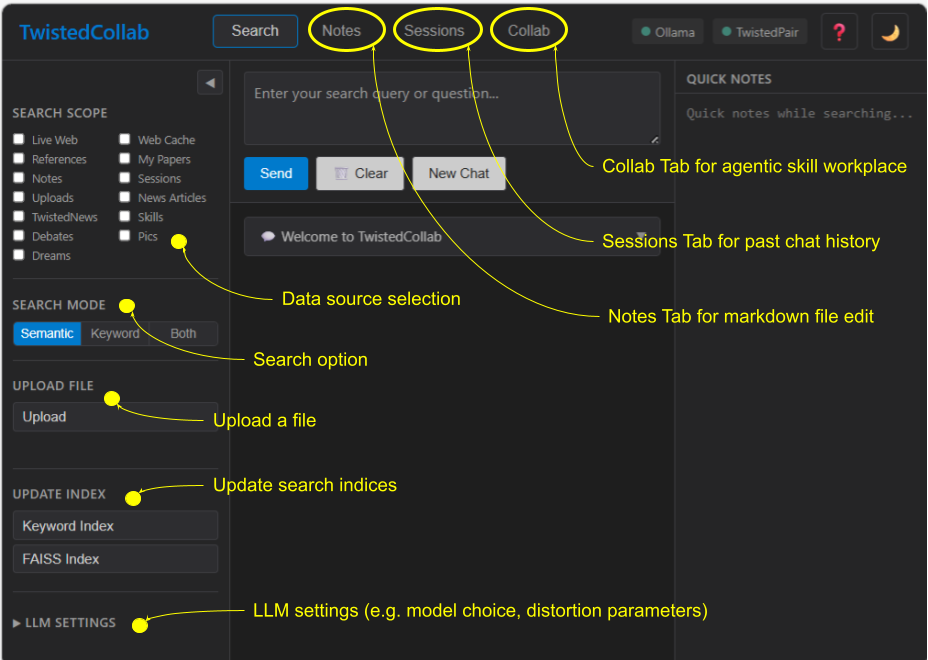
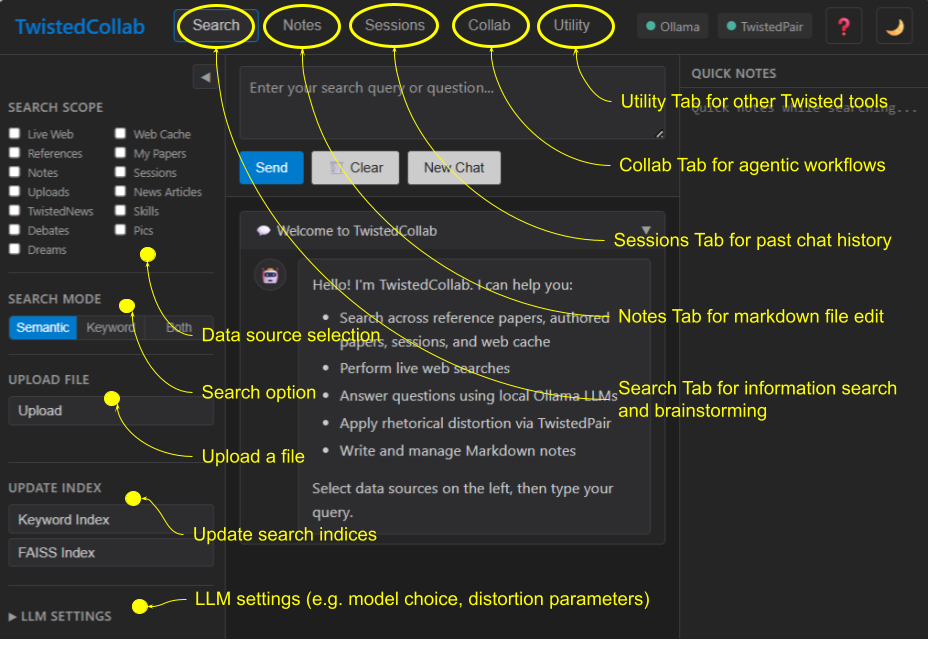
update README

diff --git a/README.md b/README.md
@@ -1,18 +1,46 @@
 # TwistedCollab
 
-*A **local-first**, no-cloud AI agentic research assistant* - Fully self-contained Web browser application to access, analyze, and act on data. ***Collaborate*** with AI agents in multi-step agentic workflows, and special features from rhetorical [***TwistedPair***]( https://github.com/satoruisaka/TwistedPair) distortion and data integration with [***TwistedDebate***](https://github.com/satoruisaka/TwistedDebate), [***TwistedDream***](https://github.com/satoruisaka/TwistedDream), [***TwistedNews***](https://github.com/satoruisaka/TwistedNews), and [***TwistedPic***](https://github.com/satoruisaka/TwistedPic). Core functions include: RAG-powered chat, Markdown file edits and previews, live Web search, semantic and keyword search on local data sources, including personal documents, session history, notes, uploads, news articles, and various AI agent outputs.
+Created: October 2025 · Updated: March 24, 2026
 
-Created: February 2026 · Updated: March 2026
+- Fully self-contained Web browser application, serving as an agentic research assistant with ***no cloud dependencies***, collaborating with local LLMs in agentic workflows to access, analyze, and act on data.
+
+- Core functions: RAG-powered chat, Markdown file edits and previews, live Web search, semantic and keyword search on local documents, session history, notes, uploads, news articles, and various AI agent outputs.
+
+- Special features: Uniquely integrated with ***Twisted*** services: [***TwistedPair***]( https://github.com/satoruisaka/TwistedPair), [***TwistedDebate***](https://github.com/satoruisaka/TwistedDebate), [***TwistedDream***](https://github.com/satoruisaka/TwistedDream), [***TwistedNews***](https://github.com/satoruisaka/TwistedNews), and [***TwistedPic***](https://github.com/satoruisaka/TwistedPic). 
+
 
 ## Target User and Objective
 
-TwistedCollab is originally designed and built for my personal use to assist my daily scientific research activities, which mostly involve data, documents, and idea managament. Ideation and iteration are critical elements in research. I often revisit what I have read, thought, built, and written in the past, and ask myself questions on them from different perspectives at different times. Therefore, searching and reading data and documents alone is not sufficient. I need a tool that captures what I do everyday and allows me to access and act on them.
+TwistedCollab is specifically designed for my personal use to assist my daily scientific research actibities. The objective is to establish a comprehensive, unified workbench to manage my data, documents, and ideas, completely locally without cloud dependencies.
 
-Many tasks I regulary perform require multiple steps with advanced linguistic processes. LLMs are very useful for this purpose. Since my work involve large volume of texts, data, and programs, the total token counts are quite large. Relying on cloud AI services adds up cost. Since everything I do remains in my local workstation, dealing with cloud storage is not ideal for me.
+*Reason why I exploit local LLMs and agentic workflows* - Ideation and iteration are critical elements in my daily work. I often revisit what I have read, thought, built, and written in the past, and ask myself questions on them from different perspectives at different times. Many tasks I regulary perform require multiple steps with advanced linguistic processes. LLMs are useful for this type of work. Since my work involve large volume of texts, data, and programs, the total token counts are quite large. Also because everything I do remains in my local workstation, dealing with cloud storage is not ideal. Local LLMs are my solution.
 
-Therefore, the objective of TwistedCollab is to address these needs and constraints, serving as a personal agentic research assistant, providing a unified workbench to not only access but also to act on my data, documents, and ideas, and doing so completely locally without cloud dependencies.
+## How I use ***Twisted*** tools everyday
 
-Unlike LLM-based communication automation apps such as **OpenClaw**, TwistedCollab is about accessing and acting on local data by exploiting Twisted series applications that fully exploit LLM capabilities.  
+At 6AM every morning, I receive and read two emails from my ***NewsAgent*** and ***TwistedNews***, which give me an overview of what's happening in the world with custom commentaries.
+
+I then launch ***TwistedCollab*** and begin my work:
+- From **Search** Tab, I brainstorm ideas with LLMs, do live Web search, and document search.
+- From **Notes** Tab, I take new notes or revisit my old notes.
+- From **Sessions** Tab, I revisit previous sessions to resume idea brainstorming.
+- From **Collab** Tab, I launch agentic workflows (e.g. literature search, literature review, document commentary).
+- From **Utiity** Tab, I launch various Twisted services:
+  - ***TwistedPic*** - custom image generation with TwistedPair distortion
+  - ***TwistedDream*** - custom story generation with illustraions and TwistedPair distortion
+  - ***TwistedDebate*** - agentic debate for deep analyses (one-one debate, cross examination, panel discussion, round robin comments)
+  - *Excalidraw* - drawing tool
+
+## Local models I regularly use
+
+- ministral-3:14b - default model for quick response
+- gemma3:27b - instruction following tasks, brainstorming
+- qwne3-coder:30b - programming
+- qwen3.5:27b and 35b - brainstorming and architecting
+- deepseek-r1:8b - for agentic debates
+- nemotron-cascade-2:30b - agentic debates
+- nemotron-3-nano:30b - agentic debates
+
+Note: My workstation has RTX5090 with 32GB so these 14b-30b models work well.
 
 ### **Screenshots**
 
@@ -111,6 +139,11 @@ All settings live in `config.py` and can be overridden via environment variables
 | `UNLOAD_EMBEDDER_AFTER_USE` | `True` | Free GPU after embedding queries |
 | `CHILD_CHUNK_SIZE` | `500` | Tokens per chunk for FAISS indexing |
 | `CHUNK_OVERLAP` | `100` | Overlap between consecutive chunks |
+| `UTILITY_HOST` | `http://192.168.1.92` | Base host for all utility service URLs |
+| `TWISTEDPIC_URL` | `{UTILITY_HOST}:5000` | TwistedPic service URL |
+| `TWISTEDDREAM_URL` | `{UTILITY_HOST}:5001` | TwistedDream service URL |
+| `TWISTEDDEBATE_URL` | `{UTILITY_HOST}:8004` | TwistedDebate service URL |
+| `EXCALIDRAW_URL` | `{UTILITY_HOST}:3001` | Excalidraw service URL |
 
 ---
 
@@ -176,6 +209,26 @@ Full Markdown editor:
 - Live filter box to search session titles and previews
 - Sessions stored as JSON + Markdown in `data/sessions/`
 
+### Utility Tab
+
+Launcher and file manager for companion services in the Twisted ecosystem.
+
+**Service Launcher (top)** — Cards are rendered dynamically from `/api/utility-urls`. Each card shows:
+- A **live status dot** (green = running, amber pulse = starting/checking, red = stopped) probed at tab-open time via `GET /api/utility/status/{service}`
+- A **Launch** button that:
+  1. Opens a blank browser tab immediately (avoids popup-blocker)
+  2. Calls `POST /api/utility/launch/{service}` — if the service is already running the tab navigates to its URL instantly
+  3. If the service is down, the server spawns the corresponding startup script (e.g. `startTwistedPic.sh`) as a background process
+  4. The button changes to **Starting…** and polls `GET /api/utility/status/{service}` every 3 seconds; once the service responds the tab is navigated and the button resets
+  5. Startup errors (e.g. Ollama not running) or a 2-minute timeout surface as an inline error message on the card
+- If a service URL is `null` (not yet configured), the card shows **Coming Soon** instead
+
+**File Manager (bottom)** — Browse, navigate, and download files from the `data/` directory:
+- Breadcrumb navigation into nested folders
+- Checkbox-select individual files; **Download Selected** packages them as a `.zip`
+- Select All / Deselect controls
+- File size and modification date columns
+
 ### Collab Tab
 
 The **Agentic Skill Runner**. Executes multi-step LLM workflows driven by YAML skill definitions.
@@ -184,7 +237,10 @@ The **Agentic Skill Runner**. Executes multi-step LLM workflows driven by YAML s
 - **Skill Library** — all registered skills loaded from `skills/*.yaml`; click a card to select
 - **Parameters** — dynamically rendered form for each skill's declared parameters
   - `str` / `int` → text or number input with min/max constraints
+  - `str` with `allowed_values` → dropdown select
+  - `text` → multi-line textarea (for pasting content)
   - `dict` (e.g. `search_scope`) → compact 2-column checkbox grid, one checkbox per key (mirrors the Search Scope layout in the Search tab)
+  - Parameters with `linked_to` → file picker whose list auto-populates when its linked source-type dropdown changes
 - **Run Skill** — disabled while a job is running (single-run guard)
 - **Recent Jobs** — last 5 jobs with status badge; click a completed job to restore its output
 
@@ -236,6 +292,23 @@ Automated 3-step literature review over your indexed document collections.
 
 ---
 
+#### `document_commentary`
+Generates structured commentary on any indexed document or directly on pasted text.
+
+| Parameter | Type | Default | Description |
+|---|---|---|---|
+| `source_type` | str (dropdown) | `notes` | Where to read the content from: `text`, `notes`, `user_uploads`, `skills`, `news_articles`, `twistednews`, `reference_papers`, `my_papers`, `sessions` |
+| `source_file` | str (file picker) | — | File to comment on — list auto-populates when `source_type` changes. Leave empty when `source_type = text` |
+| `source_text` | text (textarea) | — | Paste text directly (only used when `source_type = text`) |
+| `commentary_focus` | str | — | Specific angle to focus the commentary on (optional) |
+| `tone` | str (dropdown) | `analytical` | Commentary tone: `analytical`, `critical`, `supportive`, `neutral` |
+
+**Steps:** `source_fetch_agent` → `commentary_agent`
+
+**Output:** Structured Markdown commentary with Overview, Key Points, Substantive Commentary, Connections & Implications, and Open Questions.
+
+---
+
 #### `literature_discovery`
 Discovers new sources via live web search, then ranks and annotates them with an LLM.
 
@@ -261,6 +334,8 @@ Discovers new sources via live web search, then ranks and annotates them with an
 | `summarization_agent` | `agents/summarization_agent.py` | `synthesize` | Ollama LLM — structured 5-section review |
 | `web_discovery_agent` | `agents/web_discovery_agent.py` | `discover_sources` | `POST /api/web-search` (Brave/DDG) |
 | `extraction_agent` | `agents/extraction_agent.py` | `extract_sources` | Ollama LLM — ranks + annotates results |
+| `source_fetch_agent` | `agents/source_fetch_agent.py` | `fetch_source` | Reads a file from any indexed source or accepts pasted text |
+| `commentary_agent` | `agents/commentary_agent.py` | `generate_commentary` | Ollama LLM — structured document commentary |
 
 ### Adding a New Skill
 
@@ -477,6 +552,12 @@ Sessions are resumable from the Sessions tab. Closed sessions are auto-indexed s
 | GET | `/api/notes/{filename}` | Load a note |
 | PUT | `/api/notes/{filename}` | Save a note |
 | GET | `/api/health` | Health — Ollama, TwistedPair, embedder, GPU |
+| GET | `/api/utility-urls` | Return configured URLs for all utility services |
+| GET | `/api/utility/status/{service}` | Probe whether a utility service is reachable (`running` \| `stopped` \| `starting` \| `error`) |
+| POST | `/api/utility/launch/{service}` | Check service health; if down, spawn its startup script and return `starting` status |
+| GET | `/api/files/list` | List files/folders under `data/` (breadcrumb navigation) |
+| GET | `/api/files/download` | Download a single file from `data/` |
+| POST | `/api/files/download-zip` | Package selected files as a `.zip` download |
 | POST | `/api/skills/run/stream` | Run a skill with SSE progress stream |
 | POST | `/api/skills/run` | Submit skill as async job (returns job_id) |
 | GET | `/api/skills/status/{job_id}` | Poll job status and result |
@@ -585,10 +666,13 @@ TwistedCollab/
 | `agents/summarization_agent.py` | LLM literature review synthesis agent |
 | `agents/web_discovery_agent.py` | Web search agent with optional site: filter |
 | `agents/extraction_agent.py` | LLM source ranking and annotation agent |
+| `agents/source_fetch_agent.py` | Reads a file from any indexed source or accepts pasted text |
+| `agents/commentary_agent.py` | LLM structured document commentary agent |
 | `skills/skill_schema.py` | Pydantic models for YAML skill definitions |
 | `skills/skill_registry.py` | Lazy YAML loader and cache for skill definitions |
 | `skills/literature_review.yaml` | 3-step literature review skill definition |
 | `skills/literature_discovery.yaml` | 2-step web discovery + extraction skill definition |
+| `skills/document_commentary.yaml` | 2-step document commentary skill definition |
 
 ---
 
@@ -604,6 +688,11 @@ TwistedCollab/
 | `TWISTED_DEBATES_DIR` | Path to TwistedDebate outputs (default: `../TwistedDebate/outputs`) |
 | `TWISTED_PICS_DIR` | Path to TwistedPic outputs (default: `../TwistedPic/outputs`) |
 | `TWISTED_DREAMS_DIR` | Path to TwistedDream outputs (default: `../TwistedDream/outputs`) |
+| `UTILITY_HOST` | Base host for companion service URLs (default: `http://192.168.1.92`) |
+| `TWISTEDPIC_URL` | Override TwistedPic URL (default: `{UTILITY_HOST}:5000`) |
+| `TWISTEDDREAM_URL` | Override TwistedDream URL (default: `{UTILITY_HOST}:5001`) |
+| `TWISTEDDEBATE_URL` | Override TwistedDebate URL (default: `{UTILITY_HOST}:8004`) |
+| `EXCALIDRAW_URL` | Override Excalidraw URL (default: `{UTILITY_HOST}:3001`) |
 
 ---
 
@@ -614,4 +703,15 @@ MIT License
 ## Created and last updated
 
 Created: February 22, 2026  
-Last updated: March 22, 2026
+Last updated: March 24, 2026
+
+### Changelog
+
+**March 24, 2026**
+- **Utility Tab — Smart Service Launcher**: Launch buttons now probe service health before opening. If a service is down, the server spawns its startup script automatically. A live status dot (green/amber/red) shows running state on each card. The browser tab is opened immediately in the click handler to avoid popup-blocker issues, then navigated to the service URL once it is confirmed running. A 2-minute polling timeout with inline error messages handles startup failures.
+- **Utility Tab — File Manager**: New file browser section at the bottom of the Utility tab. Supports breadcrumb folder navigation, checkbox-select for individual files, Select All / Deselect controls, and a "Download Selected" button that packages files as a `.zip`.
+- **New API endpoints**: `GET /api/utility/status/{service}`, `POST /api/utility/launch/{service}`, `GET /api/files/list`, `GET /api/files/download`, `POST /api/files/download-zip`.
+- **`SERVICE_SCRIPTS` in `config.py`**: Whitelist mapping service names to their startup script paths. Service name is validated against this dict before any script is executed (no user-controlled shell input).
+- **Graceful shutdown**: On TwistedCollab shutdown, all utility services started from the Utility tab are sent SIGTERM (5-second grace period) then SIGKILL, leaving no background processes running. Subprocess pipes use `DEVNULL` to avoid asyncio transport warnings on loop close.
+- **New Collab skill — `document_commentary`**: Generates structured commentary (Overview, Key Points, Substantive Commentary, Connections & Implications, Open Questions) on any indexed document or pasted text. Supports `source_type` dropdown, auto-populated `source_file` picker, optional `source_text` textarea, focus angle, and tone selector.
+- **New agents**: `source_fetch_agent` (reads a file from any indexed source or accepts pasted text), `commentary_agent` (LLM structured commentary generation).
